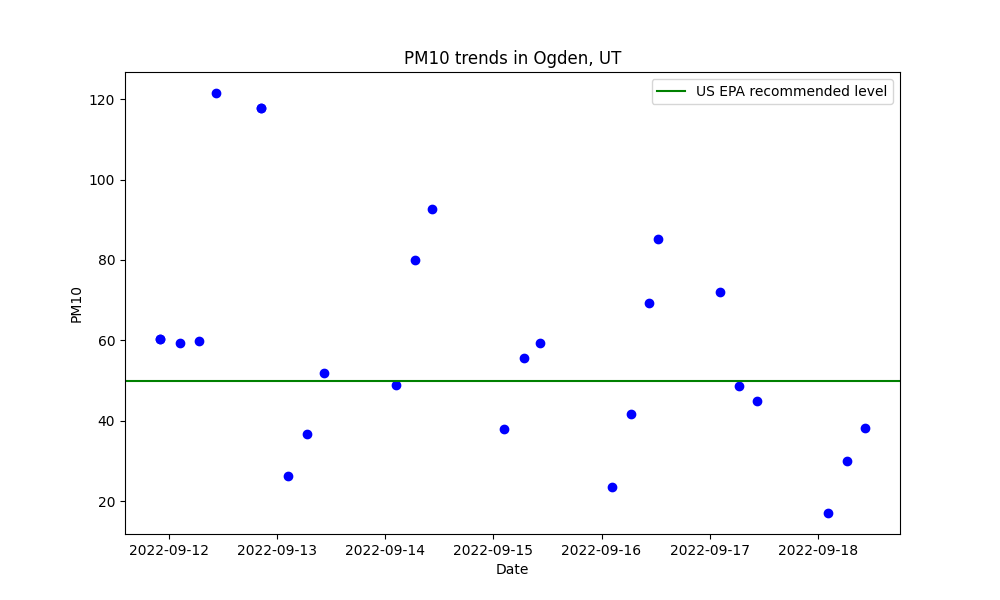
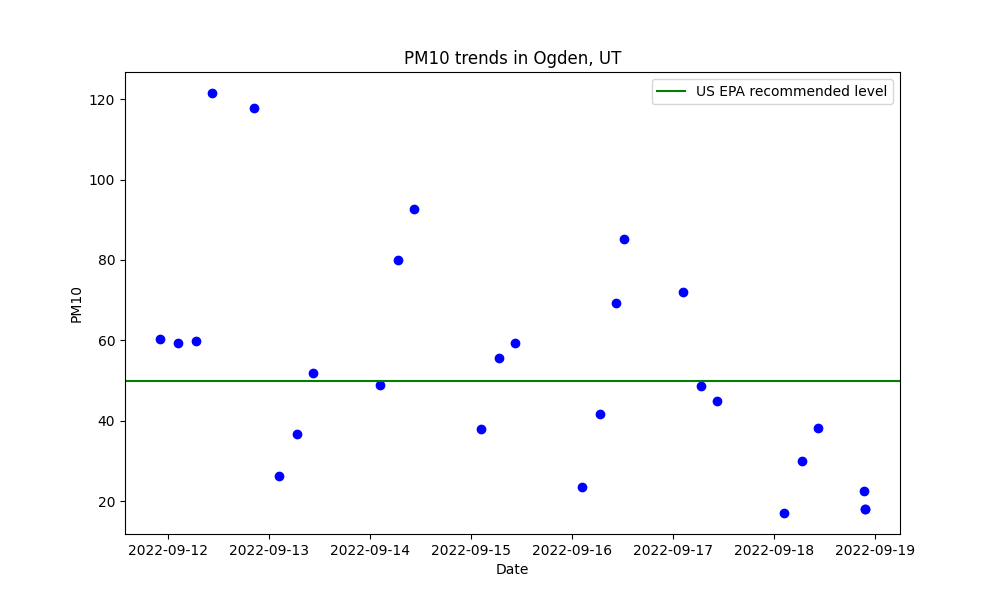
Add data summary

diff --git a/templates/main.html b/templates/main.html
@@ -3,8 +3,8 @@
 </h1>
 <br>
 <p><img src="https://github.com/claytonjhamilton/claytonjhamilton/blob/main/images/waving_hand.gif" width="18px">
-This tiny project has given me an excuse to play with API calls, GitHub Actions, and automated document updates. 
 I'm a pharmacist 💊 and clinical informatician 📈 living in <b>{{ state_name }}</b>, USA. 
+This tiny project has given me an excuse to play with API calls, GitHub Actions, and automated document updates. 
 Today, the sun rose at <b>{{ sun_rise }}</b> and sets at <b>{{ sun_set }}</b>. 
 As of <b>{{ current_time_MST }} MST </b> the temperature is <b>{{ temperature }}°F</b> {{ weather_emoji }}.</p>
 <br>
@@ -13,6 +13,12 @@ is finding that unhealthy air quality is associated with negative impacts to hum
 including (oddly) <a href="https://www.pnas.org/doi/10.1073/pnas.1809474115">decreases in verbal skills</a>.
  This project automatically collects, stores, and visualizes trends in airborne particulate 
 matter changes in my area. Specifically particulate matter smaller than 10 micrometers (PM10).
+<br>
+<br>
+This repo has been collecting PM10 air quality data for the last <b>{{ days_of_AQI_data }}</b> days.
+During this time, <b>{{ count_exceeding_EPA }}</b> of <b>{{ pm10_data_point_count }}</b> total PM10 points collected
+exceeded the recommended US EPA level of 50 PM10.
+<br>
 <br>
 <p align="center">
   <img src="PM10_plot.png" width="600" height="400">

diff --git a/render.py b/render.py
@@ -30,10 +30,16 @@ def main():
     current_time_MST = datetime.strptime(current_time_MST, "%H:%M").strftime("%I:%M %p")
     current_date = datetime.now(timezone("US/Mountain")).strftime("%Y-%m-%d")
 
+    # Grab a random quote
     rand_quote, rand_author = random_quote()
 
-    # Grab current pollution data
+    # Grab current pollution summary data
     aqi, pm10 = get_openweather_air_quality()
+
+    # Update PM10.json, render plot, and grab summary data
+    update_PM10_json(f"{current_date} {current_time_MST}", pm10, aqi)
+    render_PM10_plot()
+    pm10_data_point_count, count_exceeding_EPA, days_of_AQI_data = summarize_PM10_json()
 
     template_variables = {
         "state_name": "Utah",
@@ -46,12 +52,11 @@ def main():
         "rand_quote": rand_quote,
         "rand_author": rand_author,
         "AQI": aqi,
-        "PM10": pm10
+        "PM10": pm10,
+        "days_of_AQI_data": days_of_AQI_data,
+        "count_exceeding_EPA": count_exceeding_EPA,
+        "pm10_data_point_count": pm10_data_point_count
     }
-
-    # Update PM10.json and render plot
-    update_PM10_json(f"{current_date} {current_time_MST}", pm10, aqi)
-    render_PM10_plot()
 
     # Load template, pass in variables, write to README.md
     env = Environment(loader=FileSystemLoader("templates"))
@@ -146,6 +151,13 @@ def update_PM10_json(timestamp, PM10, aqi):
                   separators=(',',': '))
     return
 
+def summarize_PM10_json():
+    with open("PM10.json") as doc:
+        df = pd.read_json(doc)
+    df['Date_'] = pd.to_datetime(df['DateTime'])
+    date_only = df['Date_'].dt.date
+    count_exceeding_EPA = len(df[df['PM10'] >= 50])
+    return len(df), count_exceeding_EPA, len(date_only.unique())
 
 def render_PM10_plot():
     df = pd.read_json('PM10.json')

diff --git a/README.md b/README.md
@@ -3,16 +3,22 @@
 </h1>
 <br>
 <p><img src="https://github.com/claytonjhamilton/claytonjhamilton/blob/main/images/waving_hand.gif" width="18px">
-This tiny project has given me an excuse to play with API calls, GitHub Actions, and automated document updates. 
 I'm a pharmacist 💊 and clinical informatician 📈 living in <b>Utah</b>, USA. 
+This tiny project has given me an excuse to play with API calls, GitHub Actions, and automated document updates. 
 Today, the sun rose at <b>07:11 AM</b> and sets at <b>07:32 PM</b>. 
-As of <b>10:25 AM MST </b> the temperature is <b>69.8°F</b> 👌😄.</p>
+As of <b>09:35 PM MST </b> the temperature is <b>70.4°F</b> 👌😄.</p>
 <br>
-The air quality in my area is currently <b>moderate (PM10: 38.25)</b>. Interestingly, a body of research 
+The air quality in my area is currently <b>good (PM10: 18.04)</b>. Interestingly, a body of research 
 is finding that unhealthy air quality is associated with negative impacts to human health in many ways 
 including (oddly) <a href="https://www.pnas.org/doi/10.1073/pnas.1809474115">decreases in verbal skills</a>.
  This project automatically collects, stores, and visualizes trends in airborne particulate 
 matter changes in my area. Specifically particulate matter smaller than 10 micrometers (PM10).
+<br>
+<br>
+This repo has been collecting PM10 air quality data for the last <b>8</b> days.
+During this time, <b>13</b> of <b>27</b> total PM10 points collected
+exceeded the recommended US EPA level of 50 PM10.
+<br>
 <br>
 <p align="center">
   <img src="PM10_plot.png" width="600" height="400">
@@ -63,5 +69,5 @@ src="https://stackoverflow-badge.vercel.app/?userID=14122375" /></a>
   <br>
   <img src="https://visitor-badge.glitch.me/badge?page_id=claytonjhamilton.claytonjhamilton"/>
   <br>
-Last updated on: 2022-09-18 10:25 AM MST
+Last updated on: 2022-09-18 09:35 PM MST
 </p>
